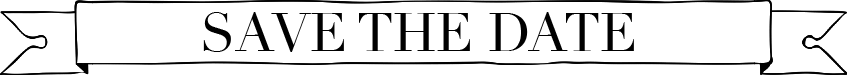
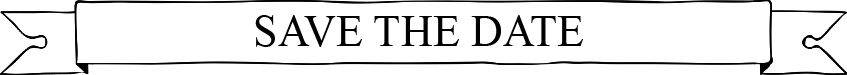
changes

Changed region(s): [[0.2149, 0.16, 0.7674, 0.6933]]

diff --git a/email/index.html b/email/index.html
@@ -19,7 +19,7 @@
     }
 
     .smaller {
-      font-size: 14px;
+      font-size: 16px;
     }
 
     .content {
@@ -38,7 +38,7 @@
       text-align: center;
       min-height: 400px;
       color: rgba(0,0,0,0.7);
-      font-size: 18px;
+      font-size: 20px;
       position: relative;
       z-index: 100;
     }
@@ -112,7 +112,7 @@
 
     <div class="text-container">
 
-      <p>Together with their families</p>
+      <!-- <p>Together with their families</p> -->
 
       <div class="our-names">
         <img src="http://jorgenandlayal.com/email/our-names.png">
@@ -122,11 +122,11 @@
         <img src="http://jorgenandlayal.com/email/banner.png">
       </div>
 
-      <p>
+<!--       <p>
         <span class="save-the-date">
           Save The Date
         </span>
-      </p>
+      </p> -->
 
 
       <p>
